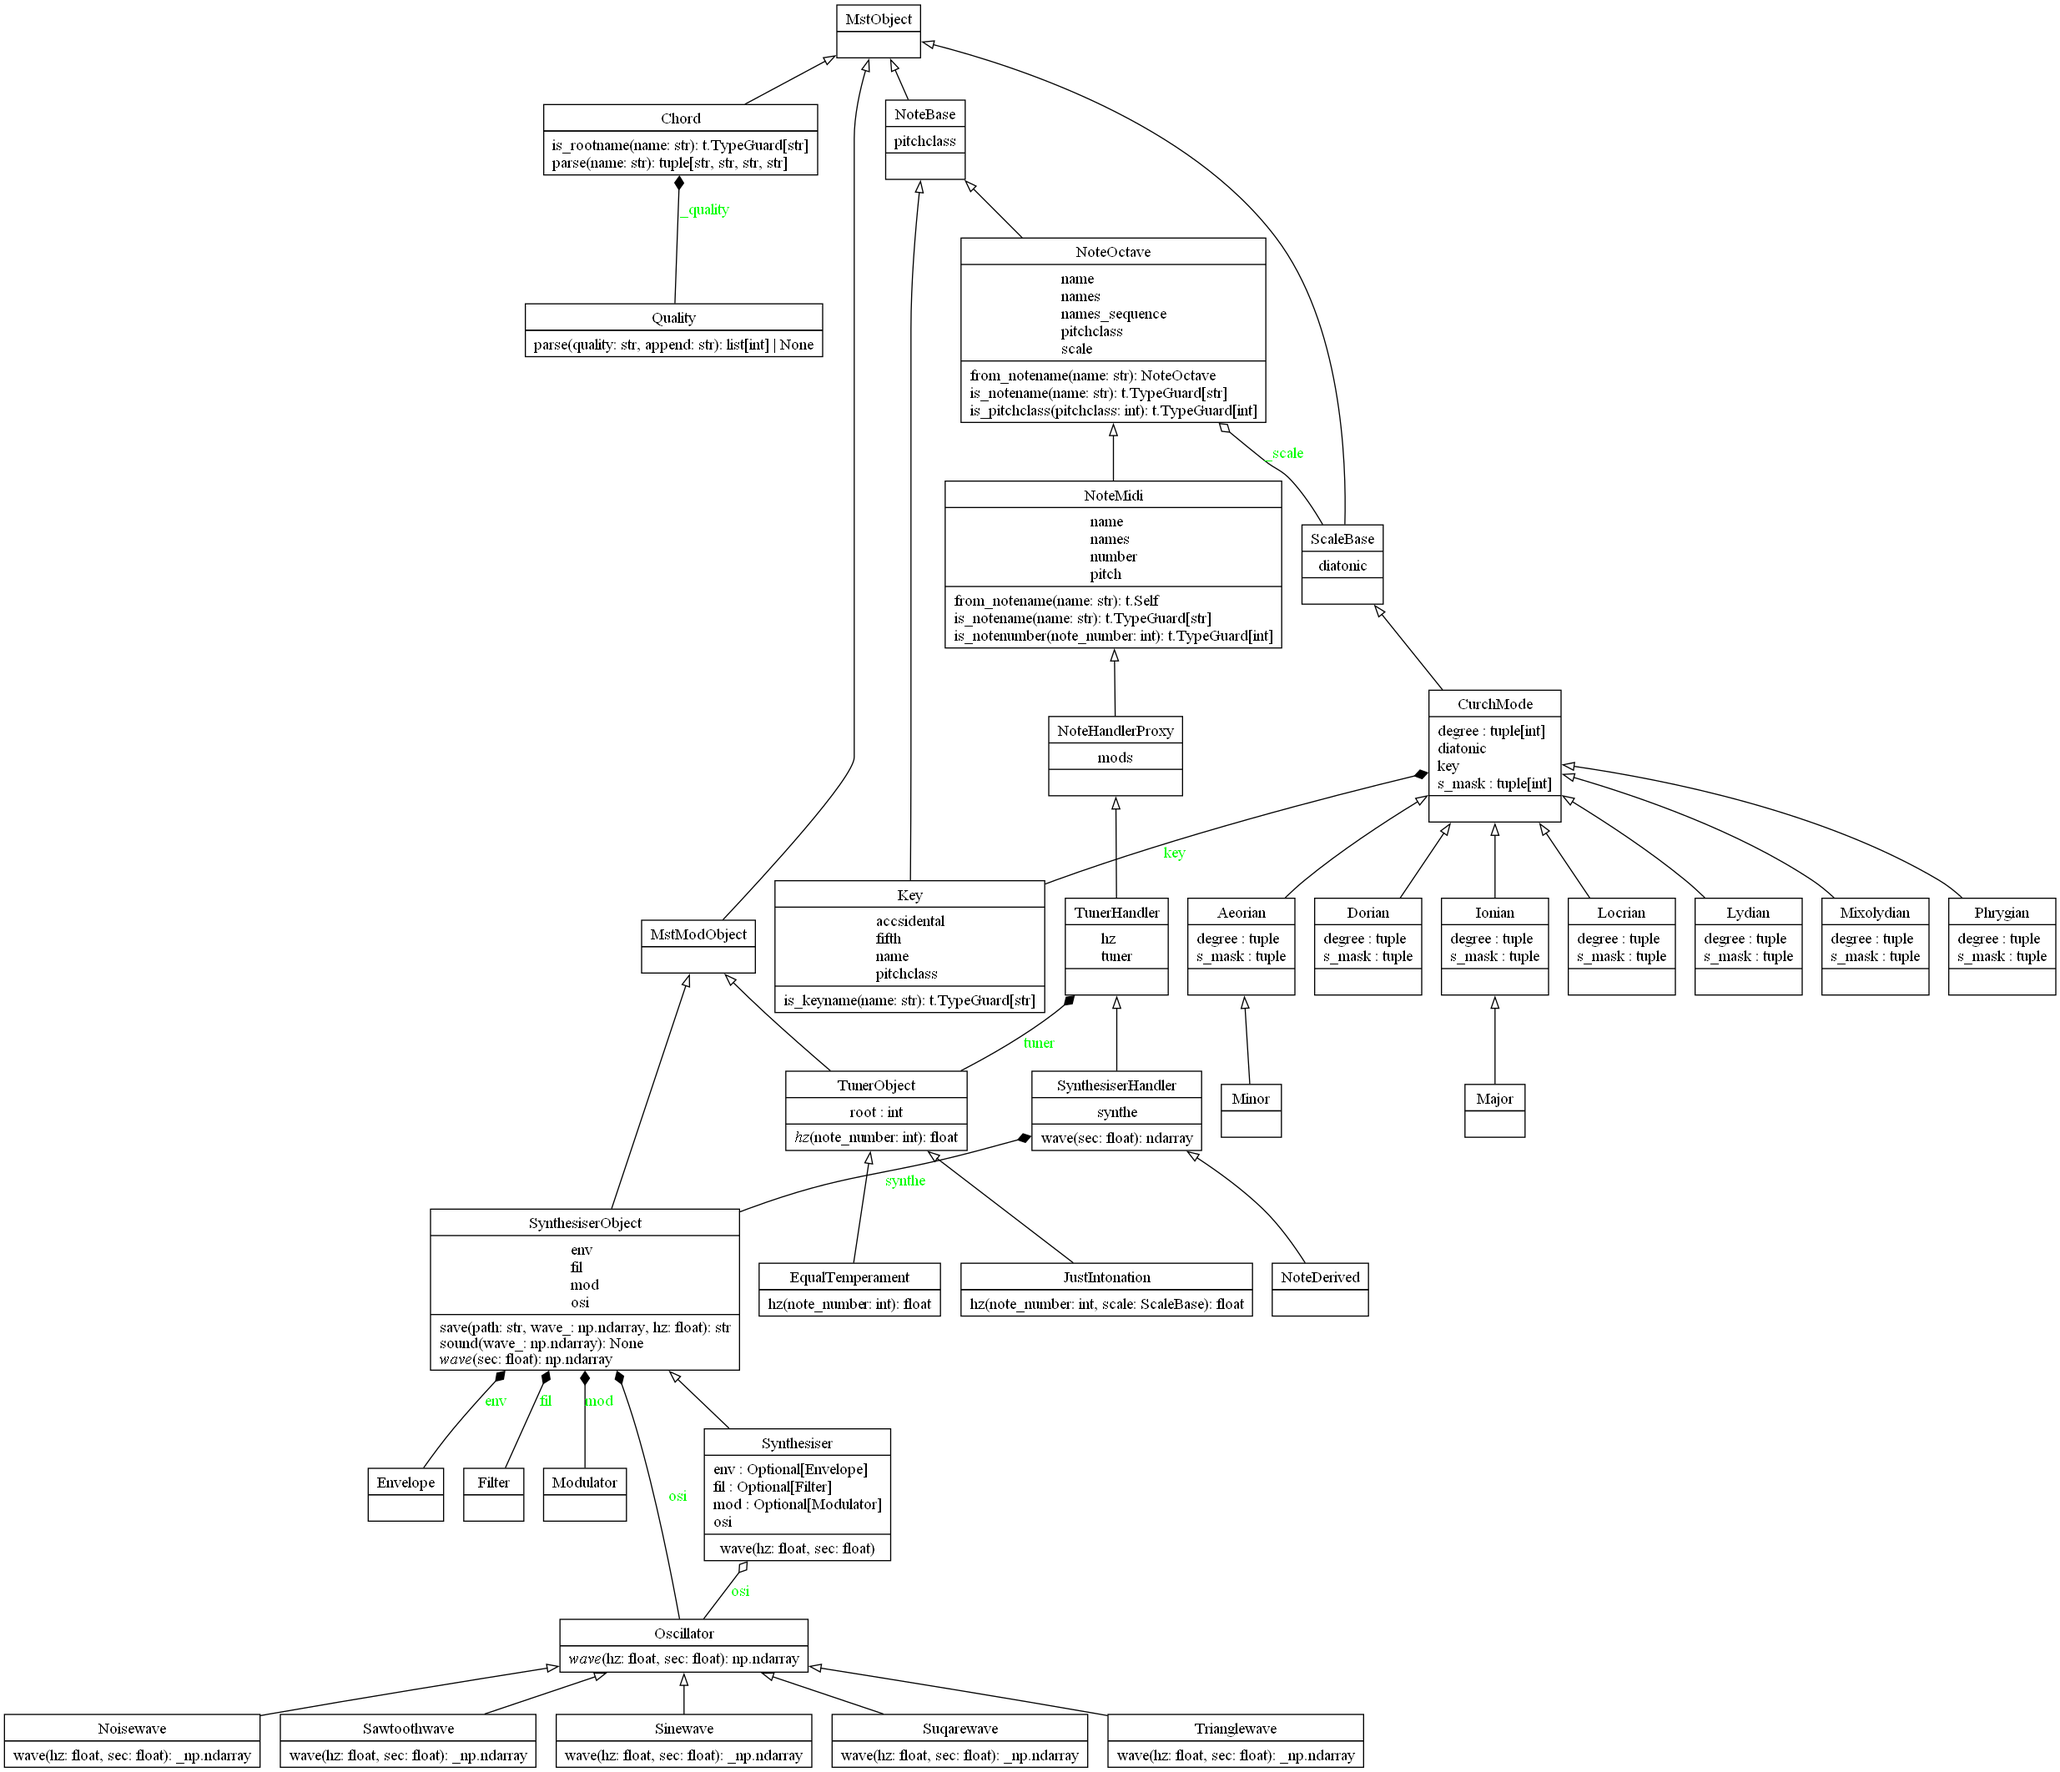
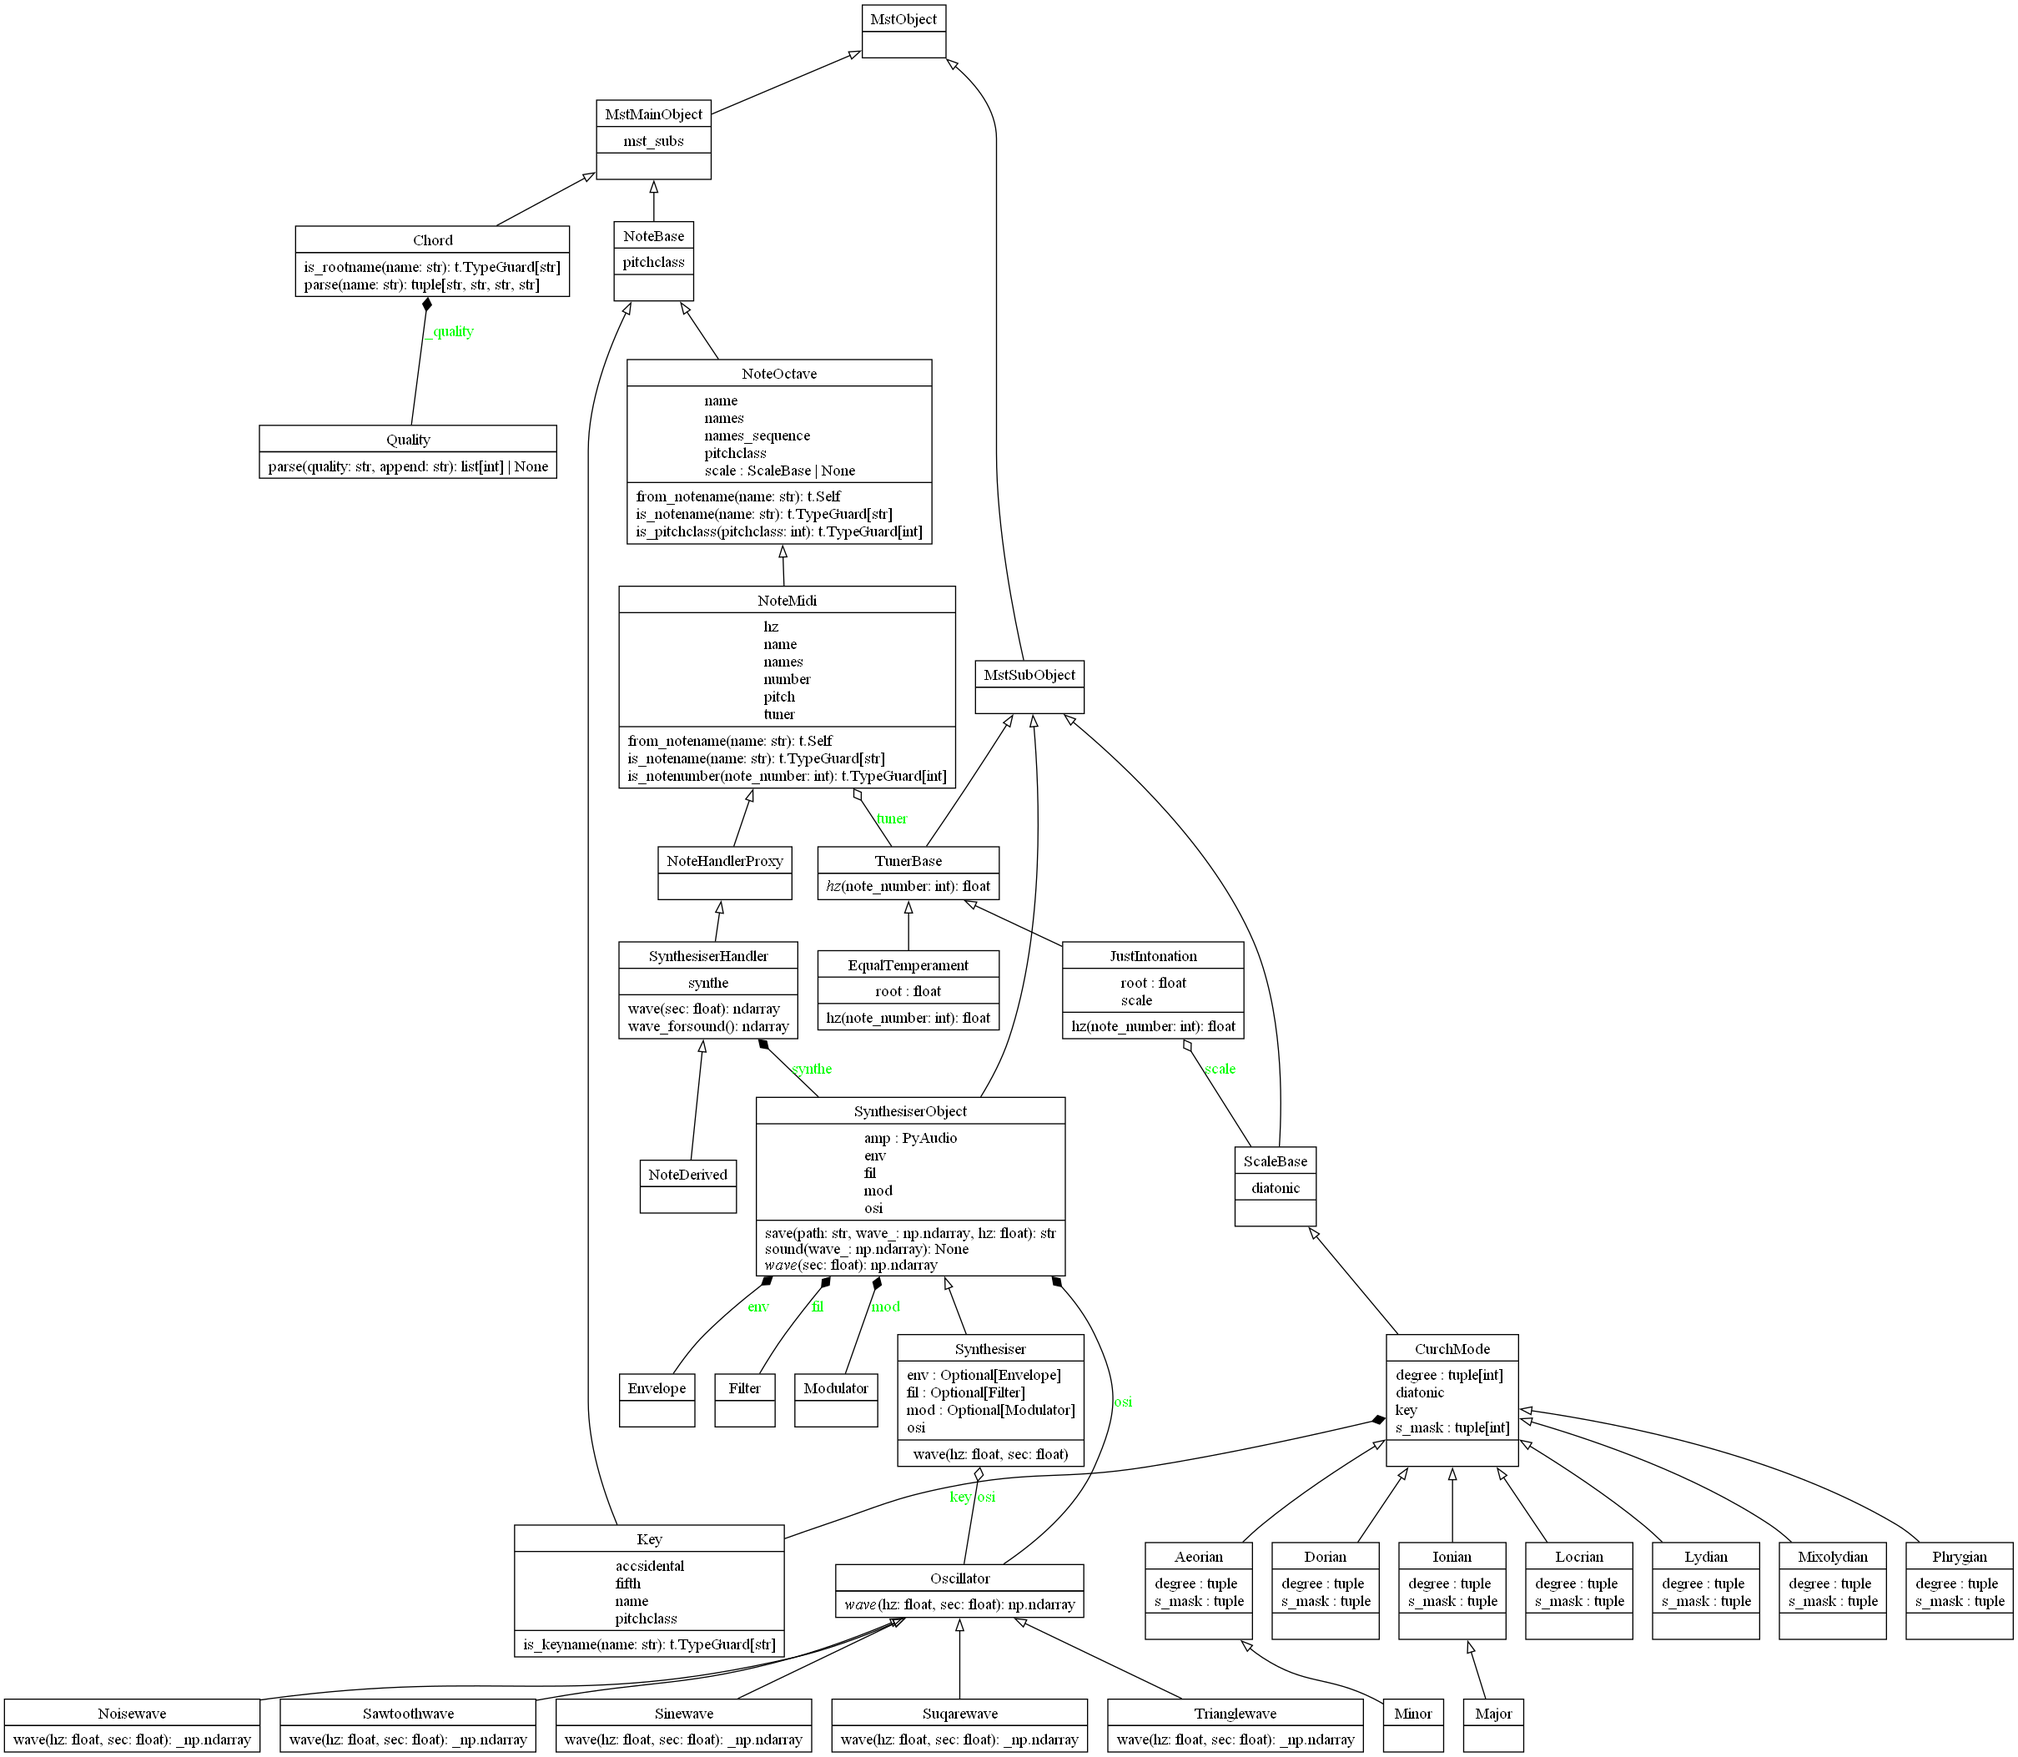
remove tuner module into note module and fix object relations

diff --git a/music_theory/note/note.py b/music_theory/note/note.py
@@ -3,8 +3,10 @@ from __future__ import annotations
 
 import re
 import typing as t
+from typing import Any
 
-from .abc import ScaleBase, NoteBase
+from .abc import NoteBase, ScaleBase, TunerBase
+from .tuner import EqualTemperament
 from ._statics import NOTENAME_TO_PITCH, PITCH_TO_NOTENAME, ALL_NOTENAME
 
 OCTAVE_NUMBER = 12
@@ -77,11 +79,19 @@ class NoteOctave(NoteBase):
             raise ValueError("")
 
         self._pitchclass: int = pitchclass
-        self._scale: ScaleBase|None = scale
-        self._name : str|None = kwargs.pop("_name", None)
+        self._name      : str|None = kwargs.pop("_name", None)
 
-        if isinstance(self._scale, ScaleBase):
-            self.__update_notename_by_scale(self._scale)
+        # mstsubobject
+        self.scale      : ScaleBase|None = scale
+
+    @property
+    def pitchclass(self) -> int:
+        """Returns the pitch class of the note.
+
+        Returns:
+            int: The pitch class of the note.
+        """
+        return self._pitchclass
 
     @property
     def name(self) -> str|None:
@@ -102,15 +112,6 @@ class NoteOctave(NoteBase):
         return [ n for n in PITCH_TO_NOTENAME[self.pitchclass] if n is not None]
 
     @property
-    def pitchclass(self) -> int:
-        """Returns the pitch class of the note.
-
-        Returns:
-            int: The pitch class of the note.
-        """
-        return self._pitchclass
-
-    @property
     def names_sequence(self) -> tuple[str|None]:
         """Returns the sequence of note names for the pitch class of the note.
 
@@ -119,22 +120,10 @@ class NoteOctave(NoteBase):
         """
         return PITCH_TO_NOTENAME[self._pitchclass]
 
-    @property
-    def scale(self) -> ScaleBase|None:
-        """Set the scale of the note.
-
-        Args:
-            scale (Scale): The scale to set.
-
-        Raises:
-            ValueError: If the scale is not an instance of Scale.
-        """
-        return self._scale
-
-    @scale.setter
-    def scale(self, scale: ScaleBase) -> None:
-        self._scale = scale
-        self.__update_notename_by_scale(scale)
+    def __setattr__(self, __name: str, __value: t.Any) -> None:
+        if __name == "scale" and isinstance(__value, ScaleBase):
+            self.__update_notename_by_scale(__value)
+        return super().__setattr__(__name, __value)
 
     def __eq__(self, other: int|NoteOctave) -> bool:
         return self._pitchclass == int(other)
@@ -143,10 +132,10 @@ class NoteOctave(NoteBase):
         return self._pitchclass != int(other)
 
     def __add__(self, other: int) -> NoteOctave:
-        return NoteOctave((self._pitchclass + other)%OCTAVE_NUMBER, scale=self._scale)
+        return NoteOctave((self._pitchclass + other)%OCTAVE_NUMBER, scale=self.scale)
 
     def __sub__(self, other: int) -> NoteOctave:
-        return NoteOctave((self._pitchclass - other)%OCTAVE_NUMBER, scale=self._scale)
+        return NoteOctave((self._pitchclass - other)%OCTAVE_NUMBER, scale=self.scale)
 
     def __int__(self) -> int:
         return self._pitchclass
@@ -163,7 +152,7 @@ class NoteOctave(NoteBase):
         self._name = name[0] if len((name := list(names & diatonic))) == 1 else None
 
     @classmethod
-    def from_notename(cls, name: str, **kwargs) -> NoteOctave:
+    def from_notename(cls, name: str, **kwargs) -> t.Self:
         """
         Create a NoteOctave object from a note name.
 
@@ -232,7 +221,9 @@ class NoteMidi(NoteOctave):
     note_number : int
         note_number in midi standard ( 0 ~ 127 )
     scale : Scale
-        select a ``scale.Scale`` containing note
+        select a subclass of ``scale.ScaleBase`` containing note
+    tuner : TunerBase
+        select a subclass of ``tuner.TunerBase``
 
     See Also
     --------
@@ -261,13 +252,18 @@ class NoteMidi(NoteOctave):
             self,
             note_number: int,
             *,
-            scale: ScaleBase = None,
+            scale: ScaleBase|None = None,
+            tuner: TunerBase = EqualTemperament(440),
             **kwargs
             ) -> None:
 
         if not self.is_notenumber(note_number):
             raise ValueError("")
+
         self._number: int = note_number
+
+        # mstsubobject
+        self.tuner  : TunerBase = tuner
 
         super().__init__(
             note_number%OCTAVE_NUMBER,
@@ -285,7 +281,7 @@ class NoteMidi(NoteOctave):
         return self._number
 
     @property
-    def name(self) -> str | None:
+    def name(self) -> str|None:
         """Get the note name.
 
         Returns:
@@ -319,6 +315,10 @@ class NoteMidi(NoteOctave):
         """
         return self._number//OCTAVE_NUMBER - 1
 
+    @property
+    def hz(self) -> float:
+        return self.tuner.hz(self._number)
+
     def __eq__(self, other: int | NoteMidi) -> bool:
         return self._number == int(other)
 
@@ -338,13 +338,25 @@ class NoteMidi(NoteOctave):
         return self._number >= int(other)
 
     def __add__(self, other: int) -> NoteMidi:
-        return NoteMidi(self._number + other)
+        return NoteMidi(
+            self._number + other,
+            scale=self.scale,
+            tuner=self.tuner
+            )
 
     def __sub__(self, other: int) -> NoteMidi:
-        return NoteMidi(self._number - other)
+        return NoteMidi(
+            self._number - other,
+            scale=self.scale,
+            tuner=self.tuner
+            )
 
     def __matmul__(self, other: int) -> NoteMidi:
-        return NoteMidi(self._number + other*OCTAVE_NUMBER)
+        return NoteMidi(
+            self._number + other*OCTAVE_NUMBER,
+            scale=self.scale,
+            tuner=self.tuner
+            )
 
     def __int__(self) -> int:
         return self._number

diff --git a/music_theory/note/handler.py b/music_theory/note/handler.py
@@ -1,23 +1,16 @@
 import typing as t
 from .note import NoteMidi
 
-from ..mst_object import MstModObject
 
 class NoteHandlerProxy(NoteMidi):
     """
     """
 
-    @property
-    def mods(self) -> dict[str, MstModObject]:
-        return dict(
-            [ [k, v] for k, v in self.__dict__.items() if isinstance(v, MstModObject)]
-        )
-
     def __add__(self, other: int) -> t.Self:
-        return self.__class__(self._number + other, **self.mods)
+        return self.__class__(self._number + other, **self.mst_subs)
 
     def __sub__(self, other: int) -> t.Self:
-        return self.__class__(self._number - other, **self.mods)
+        return self.__class__(self._number - other, **self.mst_subs)
 
     def __matmul__(self, other: int) -> t.Self:
-        return self.__class__(self._number + other*12, **self.mods)
+        return self.__class__(self._number + other*12, **self.mst_subs)

diff --git a/music_theory/note/abc.py b/music_theory/note/abc.py
@@ -1,9 +1,9 @@
 """Base classes"""
-from abc import abstractproperty
-from ..mst_object import MstObject
+from abc import abstractmethod, abstractproperty
+from ..mst_object import MstMainObject, MstSubObject
 
 
-class NoteBase(MstObject):
+class NoteBase(MstMainObject):
     """Abstract base class for notes."""
     @property
     @abstractproperty
@@ -11,9 +11,16 @@ class NoteBase(MstObject):
         """must override in subclasses"""
 
 
-class ScaleBase(MstObject):
+class ScaleBase(MstSubObject):
     """Abstract base class for scales."""
     @property
     @abstractproperty
     def diatonic(self) -> list[NoteBase]:
         """must override in subclasses"""
+
+
+class TunerBase(MstSubObject):
+    """Abstract base class for tuners."""
+    @abstractmethod
+    def hz(self, note_number: int) -> float:
+        pass

diff --git a/music_theory/note/tuner.py b/music_theory/note/tuner.py
@@ -1,0 +1,19 @@
+from .abc import TunerBase, ScaleBase
+
+
+class JustIntonation(TunerBase):
+
+    def __init__(self, root: float, scale: ScaleBase) -> None:
+        self.root  = root
+        self.scale = scale
+
+    def hz(self, note_number: int) -> float:
+        return
+
+class EqualTemperament(TunerBase):
+
+    def __init__(self, root: float) -> None:
+        self.root = root
+
+    def hz(self, note_number: int) -> float:
+        return self.root*2**((note_number-69)/12)

diff --git a/music_theory/synthesiser/abc.py b/music_theory/synthesiser/abc.py
@@ -2,7 +2,7 @@ from abc import ABCMeta, abstractmethod
 import os, datetime, wave, pyaudio
 import numpy as np
 
-from ..mst_object import MstModObject
+from ..mst_object import MstSubObject
 
 
 class Oscillator(metaclass=ABCMeta):
@@ -27,7 +27,7 @@ class Modulator(metaclass=ABCMeta):
     pass
 
 
-class SynthesiserObject(MstModObject, metaclass=ABCMeta):
+class SynthesiserObject(MstSubObject, metaclass=ABCMeta):
 
     amp = pyaudio.PyAudio()
     osi: Oscillator

diff --git a/music_theory/chord/chord.py b/music_theory/chord/chord.py
@@ -5,7 +5,7 @@ import typing as t
 
 from .quality import Quality
 from ..note import NoteOctave
-from ..mst_object import MstObject
+from ..mst_object import MstMainObject
 
 
 notename_ptn = re.compile(r"[A-Z][#b]?")
@@ -14,7 +14,7 @@ tension_ptn = re.compile(r"([-+b#]?9|[+#]?11|[-b]?13)+")
 onchord_ptn = re.compile(r"\/[A-Z][#b]?")
 
 
-class Chord(MstObject):
+class Chord(MstMainObject):
 
     def __init__(self, name: str):
         self._name = name

diff --git a/music_theory/mst_object.py b/music_theory/mst_object.py
@@ -16,6 +16,16 @@ class MstObject(metaclass=ABCMeta):
     """
 
 
-class MstModObject(MstObject):
+class MstSubObject(MstObject):
     """
     """
+
+
+class MstMainObject(MstObject):
+    """
+    """
+    @property
+    def mst_subs(self) -> dict[str, MstSubObject]:
+        return dict(
+            [ [k, v] for k, v in self.__dict__.items() if isinstance(v, MstSubObject)]
+        )

diff --git a/music_theory/synthesiser/handler.py b/music_theory/synthesiser/handler.py
@@ -1,8 +1,10 @@
 from numpy import ndarray
-from .synthesiser import SynthesiserObject
-from ..tuner import TunerHandler
 
-class SynthesiserHandler(TunerHandler):
+from .synthesiser import SynthesiserObject
+from ..note import NoteHandlerProxy
+
+
+class SynthesiserHandler(NoteHandlerProxy):
 
     def __init__(self, note_number: int, **kwargs) -> None:
         # mods

diff --git a/music_theory/note/__init__.py b/music_theory/note/__init__.py
@@ -26,8 +26,8 @@ from .note import NoteMidi
 from .note import NoteOctave
 from .note import MIDI_NUMBER
 from .note import OCTAVE_NUMBER
+from .handler import NoteHandlerProxy
 
 from .key import Key
 from . import scale
-
-from .handler import NoteHandlerProxy
+from . import tuner

diff --git a/music_theory/__init__.py b/music_theory/__init__.py
@@ -1,8 +1,6 @@
 from .note import *
 from .chord import *
-from . import tuner
 from . import synthesiser as synthe
 
 from .note_derived import NoteDerived
-
-from .mst_object import MstObject, MstModObject
+from .mst_object import MstObject, MstMainObject, MstSubObject
